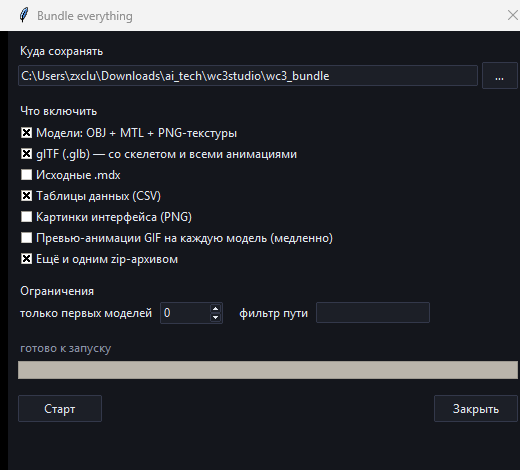
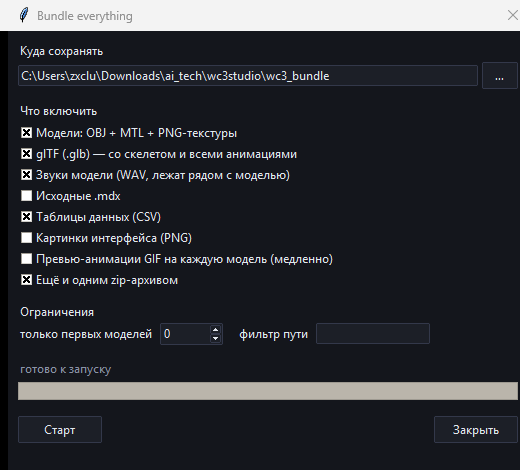
docs: 1.3.0 - sounds and everything else from a model
README explains why the folder rule is the right one for audio, shows the
models.json record and the measured numbers (71 models and 478 sounds in 35 s,
93 MiB).

Changed region(s): [[0.0308, 0.6255, 1.0, 0.9532], [0.0308, 0.3574, 0.6462, 0.6255]]

diff --git a/README.md b/README.md
@@ -30,7 +30,7 @@
 | **Экспорт** | **OBJ + MTL + PNG-текстуры** и **glTF 2.0 (.glb)** со скелетом и всеми анимациями |
 | **Данные** | 213 таблиц (SLK + INI) → CSV/JSON, склеенная база **812 юнитов** с русскими названиями и всеми характеристиками |
 | **Интерфейс** | 86 FDF → дерево **2239 фреймов** с наследованием шаблонов, 1214 локализованных строк, выгрузка 1561 картинки UI в PNG |
-| **Бандл** | `bundle` — всё сразу в папку и/или **zip**: OBJ, glTF с анимациями, `.mdx`, таблицы CSV, интерфейс PNG, GIF-превью, `manifest.json` |
+| **Бандл** | `bundle` — всё сразу в папку и/или **zip**: OBJ, glTF с анимациями, **звуки модели**, `.mdx`, таблицы CSV, интерфейс PNG, GIF-превью, `models.json` и `manifest.json` |
 | **Проверка** | `validate` (индексы OBJ, ссылки на MTL, структура GLB) и `doctor` (окружение, поиск игры) |
 
 ## Установка
@@ -155,26 +155,32 @@ wc3studio ui-assets --out out\ui --filter Widgets --sheet out\ui.png
 Одна команда собирает полный набор в папку и, если нужно, одним zip-архивом:
 
 ```powershell
-# всё: модели (OBJ+PNG), glTF с анимациями, исходные .mdx, таблицы CSV + zip
-wc3studio bundle --out wc3_assets --formats models,glb,raw,tables --zip
+# по умолчанию: модели + glTF с анимациями + звуки
+wc3studio bundle --out wc3_assets --zip
 
-# плюс интерфейс и короткие GIF-превью анимаций (медленнее)
-wc3studio bundle --out wc3_assets --formats models,glb,raw,tables,ui --previews --zip
+# вообще всё: модели (OBJ+PNG), glTF, звуки, исходные .mdx, таблицы CSV, интерфейс
+wc3studio bundle --out wc3_assets --formats all --zip
+
+# плюс короткие GIF-превью анимаций (медленнее)
+wc3studio bundle --out wc3_assets --formats all --previews --zip
 
 # быстрая проба: 20 моделей
 wc3studio bundle --out wc3_assets --limit 20 --filter "Units\Human" --zip
 ```
 
-Что попадает в папку:
+Что попадает в папку — всё, что относится к модели:
 
 ```
 wc3_assets/
-  Units/Human/Footman/Footman.obj  + .mtl + .gif   модели (структура как в игре)
+  Units/Human/Footman/Footman.obj + .mtl           модель
   Units/Human/Footman/Footman.glb                  glTF: скелет + все анимации
+  Units/Human/Footman/Footman_Portrait.*           портрет (отдельная модель)
+  Units/Human/Footman/FootmanYes1.wav … (18 шт)    звуки юнита
+  textures/Textures/Footman.blp.png                текстуры
   raw/Units/Human/Footman/Footman.mdx              исходники
-  textures/Textures/Footman.blp.png                общие текстуры
   tables/Units/UnitBalance.slk.csv                 таблицы данных
-  ui/UI/Widgets/....png                            интерфейс (с --formats ...,ui)
+  ui/UI/Widgets/....png                            интерфейс (с форматом ui)
+  models.json                                      индекс: что с какой модели
   manifest.json                                    что записано, сколько, ошибки
 wc3_assets.zip                                     если указан --zip
 ```
@@ -184,13 +190,36 @@ wc3_assets.zip                                     если указан --zip
 костями. Дополнительно `--previews` рендерит по короткому GIF на модель (по умолчанию
 из `Stand`), а `--sequences Stand,Walk` ограничивает набор анимаций в glTF.
 
-Сколько это весит и длится (замерено на этой машине): 71 модель Human-юнитов
-с `models,glb,raw,tables` — **56 МиБ за 27 секунд**, zip — 31 МиБ. Полный набор из
-3225 моделей — примерно **2 ГиБ и 15–20 минут**, из них больше половины — glTF
-(около 0.55 МиБ на модель, потому что внутри анимации).
+**Звуки.** MDX на звук не ссылается — игра кладёт реплики юнита в его папку
+(`Units\Human\Footman\FootmanYes1.wav`). Поэтому бандл забирает все `.wav`/`.mp3` из
+папки модели и кладёт рядом с мешом: у Пехотинца их 18, у Паладина 22, у Овцы 7,
+у Ратуши 3. Всего в архивах 444 таких папки и около 2900 файлов. WAV копируются как
+есть — это оригиналы из MPQ, без пережатия.
 
-В GUI то же самое: вкладка **Export** → **«Bundle everything…»** — галочки форматов,
-лимит моделей, фильтр пути и прогресс-бар; работа идёт в отдельном потоке.
+**`models.json`** — индекс «всё с модели», по записи на модель:
+
+```json
+{
+ "model": "Units\\Human\\Footman\\Footman.mdx",
+ "folder": "Units/Human/Footman",
+ "portrait": "Units\\Human\\Footman\\Footman_Portrait.mdx",
+ "files": ["Footman.obj", "Footman.mtl", "Footman.glb"],
+ "textures": ["Textures\\Footman.blp", "Textures\\gutz.blp"],
+ "sounds": ["FootmanDeath.wav", "... 18 всего"],
+ "sound_count": 18,
+ "triangles": 372, "bones": 40, "geosets": 5,
+ "animations": ["Stand - 1", "Stand - 2", "Stand Victory", "..."]
+}
+```
+
+Сколько это весит и длится (замерено на этой машине): 71 модель Human-юнитов
+с `models,glb,sounds,tables` — **93 МиБ за 35 секунд** (из них 45 МиБ — 478 звуков),
+zip — 67 МиБ. Полный набор с звуками — примерно **2.2 ГиБ и 20 минут**, больше
+половины — glTF (около 0.55 МиБ на модель, потому что внутри анимации).
+
+В GUI то же самое: вкладка **Export** → **«Bundle everything…»** — галочки форматов
+(включая звуки), лимит моделей, фильтр пути и прогресс-бар; работа идёт в отдельном
+потоке.
 
 ![Bundle dialog](docs/bundle-dialog.png)
 
@@ -281,7 +310,7 @@ print(ui.strings()["AGILITY"])                    # 'Ловкость'
 python -m unittest discover -s tests -v
 ```
 
-62 теста в четырёх наборах:
+64 теста в четырёх наборах:
 
 * **`tests/test_synthetic.py`** — модель MDX собирается прямо в памяти и проходит весь
   конвейер (парсинг → рендер → OBJ → GLB → чтение обратно). Работает без игры, поэтому
@@ -291,9 +320,10 @@ python -m unittest discover -s tests -v
   экранированными кавычками), INI с секциями и разреженными ключами, FDF со всеми
   вариантами синтаксиса и вложенными блоками, CSV/JSON-экспорт, контактный лист.
 * **`tests/test_bundle.py`** — zip-складывание папки (без игры) и сборка бандла на реальных
-  архивах: сколько файлов получилось, куда, что в `manifest.json`, и что `.glb` внутри
-  бандла действительно содержит анимации. Тест на порядок «манифест → архив» поймал
-  настоящую ошибку: манифест сначала писался после архивации и не попадал в zip.
+  архивах: сколько файлов получилось, куда, что в `manifest.json` и `models.json`, что
+  `.glb` внутри бандла действительно содержит анимации, и что 18 звуков Пехотинца лежат
+  рядом с его мешом. Тест на порядок «манифест → архив» поймал настоящую ошибку:
+  манифест сначала писался после архивации и не попадал в zip.
 * **`tests/test_wc3studio.py`** и игровые тесты в `test_tables_ui.py` — на реальных
   архивах: 812 юнитов, ноль предупреждений на 86 FDF, локализованные строки, инвентарь
   картинок. Без установленной игры помечаются как skipped.
@@ -320,7 +350,7 @@ wc3studio/            пакет
   bundle.py           bundle: полный набор в папку/zip + manifest
   cli.py  gui.py      интерфейсы
   vendor/             StormLib.dll (x64, MIT)
-tests/                62 теста
+tests/                64 теста
 tools/                smoke-скрипты, проверка GLB через trimesh, захват окна
 docs/                 скриншот, галерея, демо-анимация, картинка интерфейса
 .github/workflows/    CI

diff --git a/CHANGELOG.md b/CHANGELOG.md
@@ -4,6 +4,35 @@ All notable changes to this project are documented here.
 The format follows [Keep a Changelog](https://keepachangelog.com/en/1.1.0/) and the
 project adheres to [Semantic Versioning](https://semver.org/spec/v2.0.0.html).
 
+## [1.3.0] - 2026-10-17
+
+Sound, and everything else that belongs to a model.
+
+### Added
+
+* **`sounds` format in the bundle** — the MDX format never references audio, but the game
+  keeps a unit's voice lines next to its model (`Units\Human\Footman\FootmanYes1.wav`), so
+  a bundle now copies every `.wav`/`.mp3` from the model's folder, right next to the
+  exported mesh: Footman gets 18 files, HeroPaladin 22, the Sheep 7, a Town Hall 3.
+  Across the archives that is 444 model folders and ~2900 files.
+* **`models.json`** — a per-model index of *everything that belongs to that model*: the
+  exported files, the portrait model, referenced textures, sounds, triangle/bone/geoset
+  counts and the animation names. `--no-index` turns it off.
+* **`--formats all`** shorthand for `models,glb,raw,sounds,tables,ui`; the default is now
+  `models,glb,sounds`.
+* **GUI** — a "Звуки модели" checkbox in the Bundle dialog, and the progress bar knows
+  about the sounds and index passes.
+
+### Changed
+
+* The bundle's default formats include sounds (it used to be models + glTF only).
+
+### Notes
+
+* A Human-only trial bundle (71 models, 478 sounds, 213 tables) comes to **93 MiB in
+  35 seconds**; the sounds alone are 45 MiB of that.
+* A full run with sounds is roughly **2.2 GiB**.
+
 ## [1.2.0] - 2026-10-17
 
 Everything at once.
